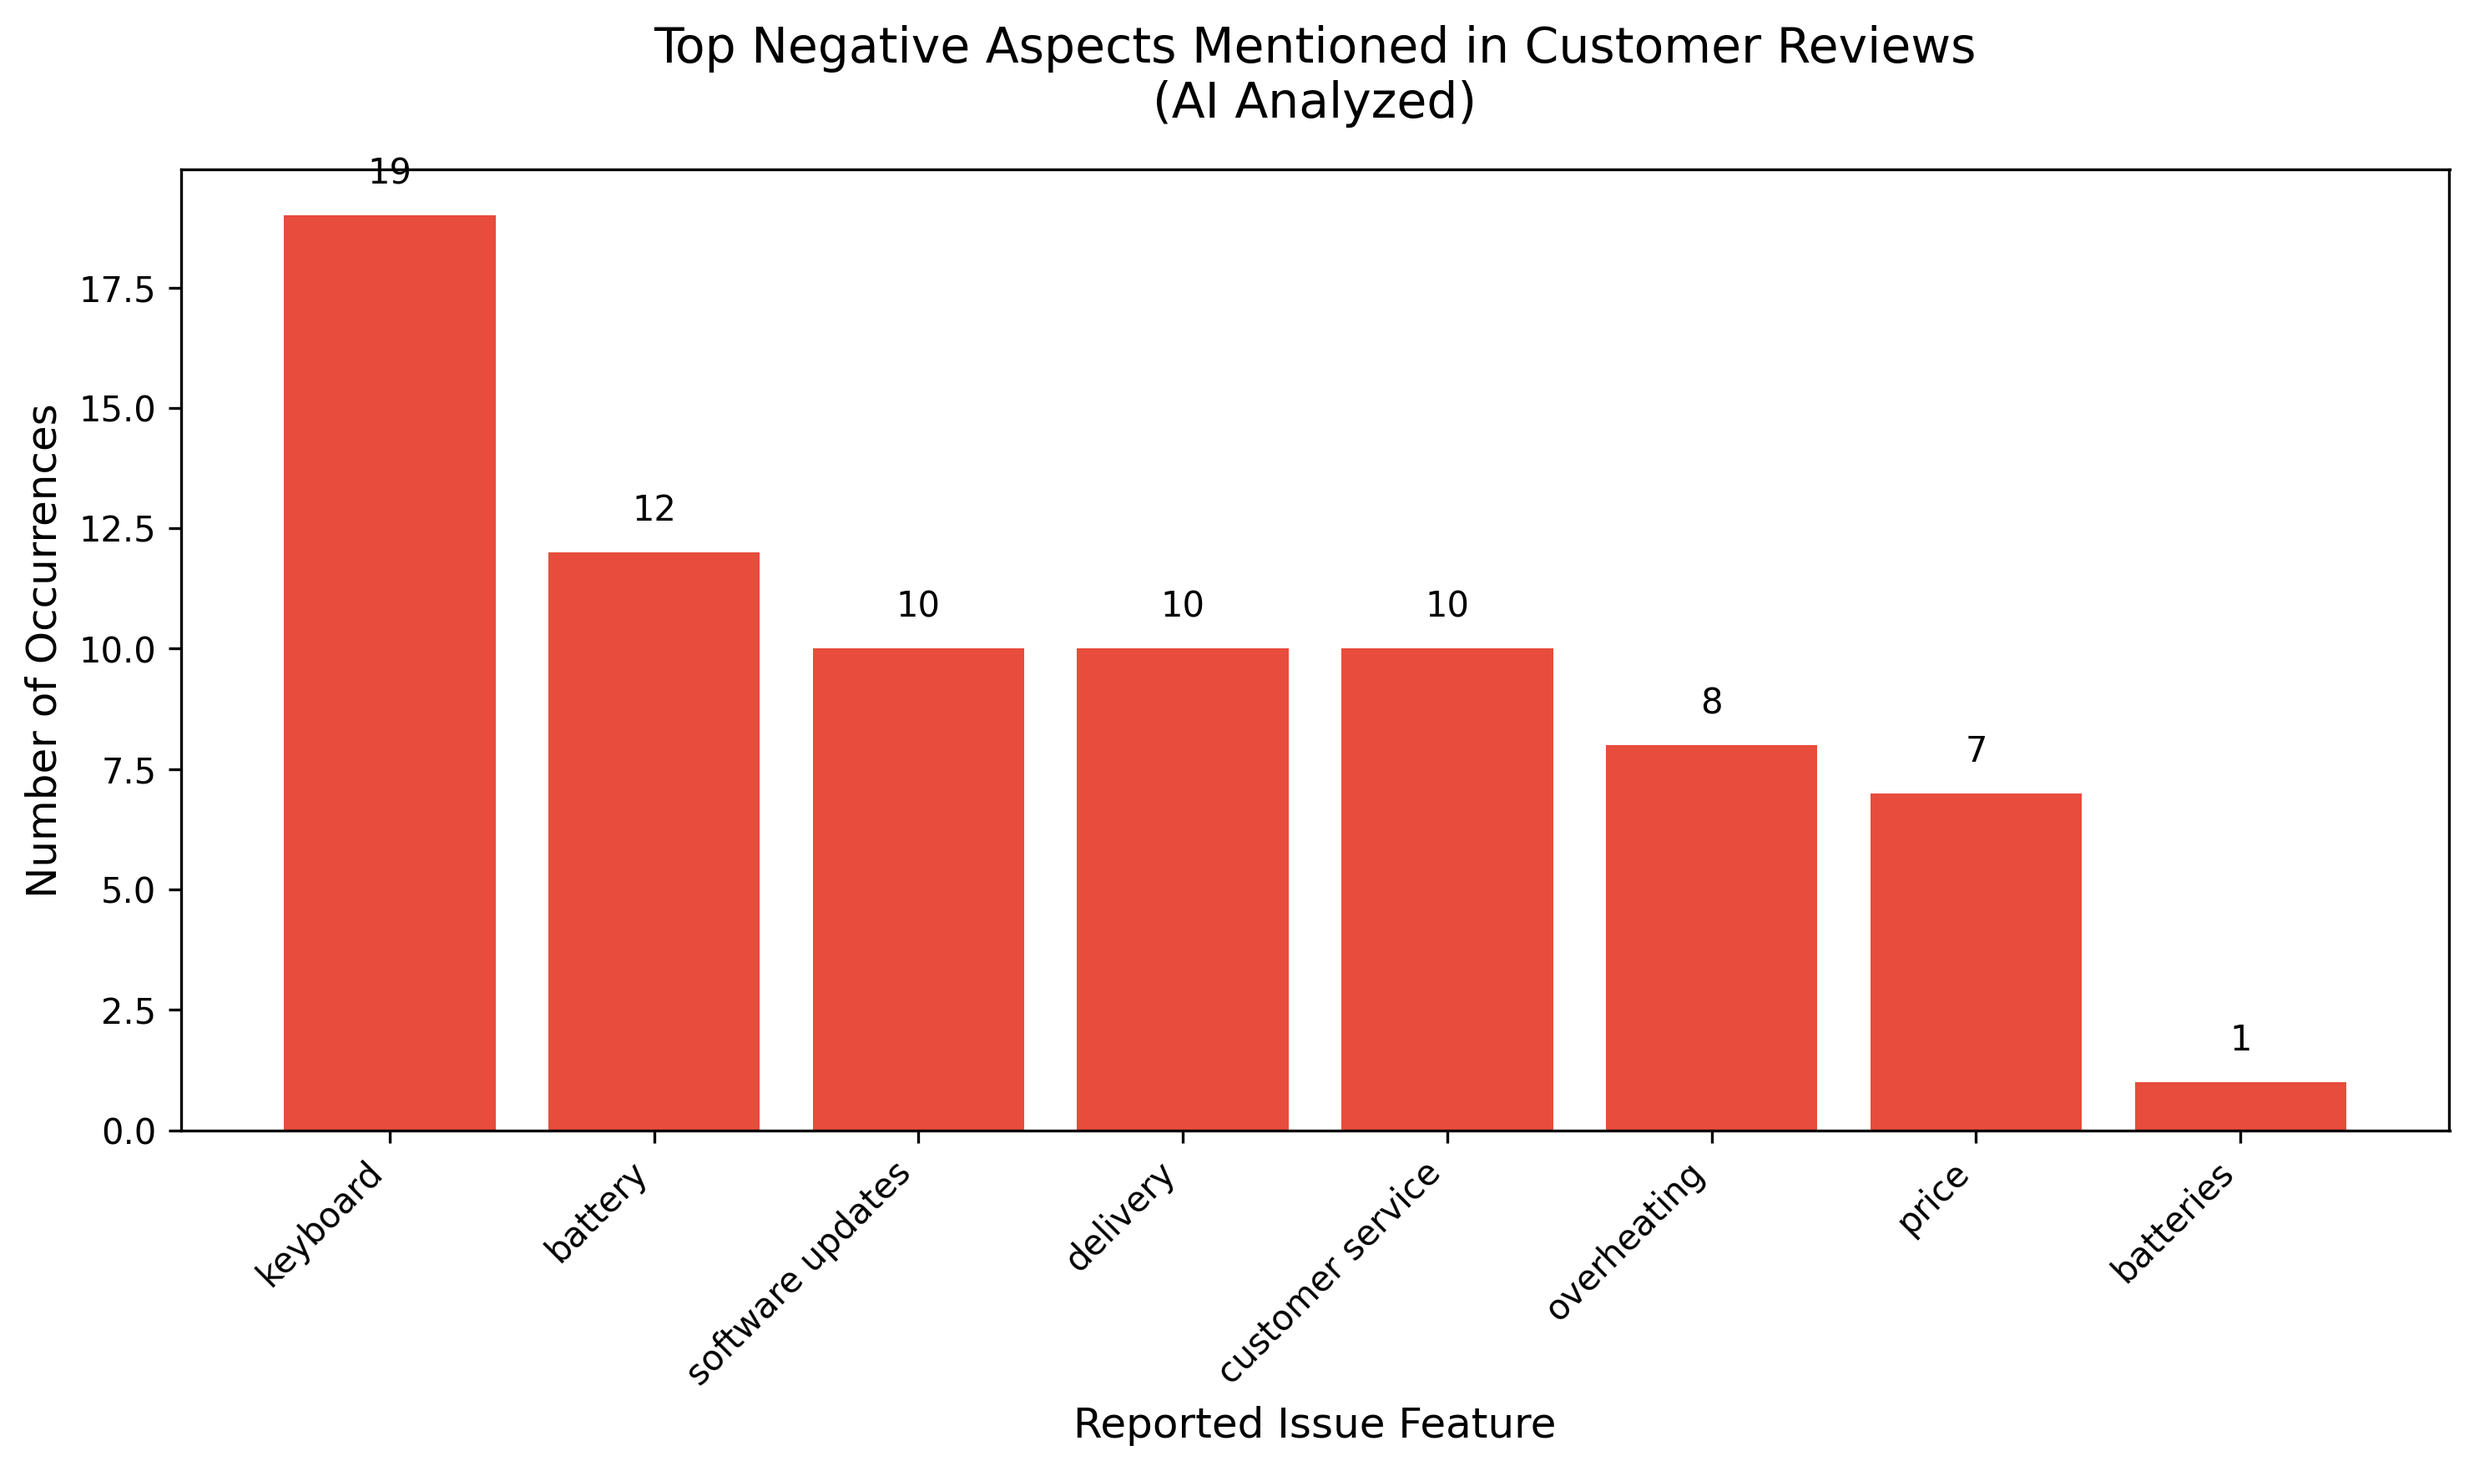
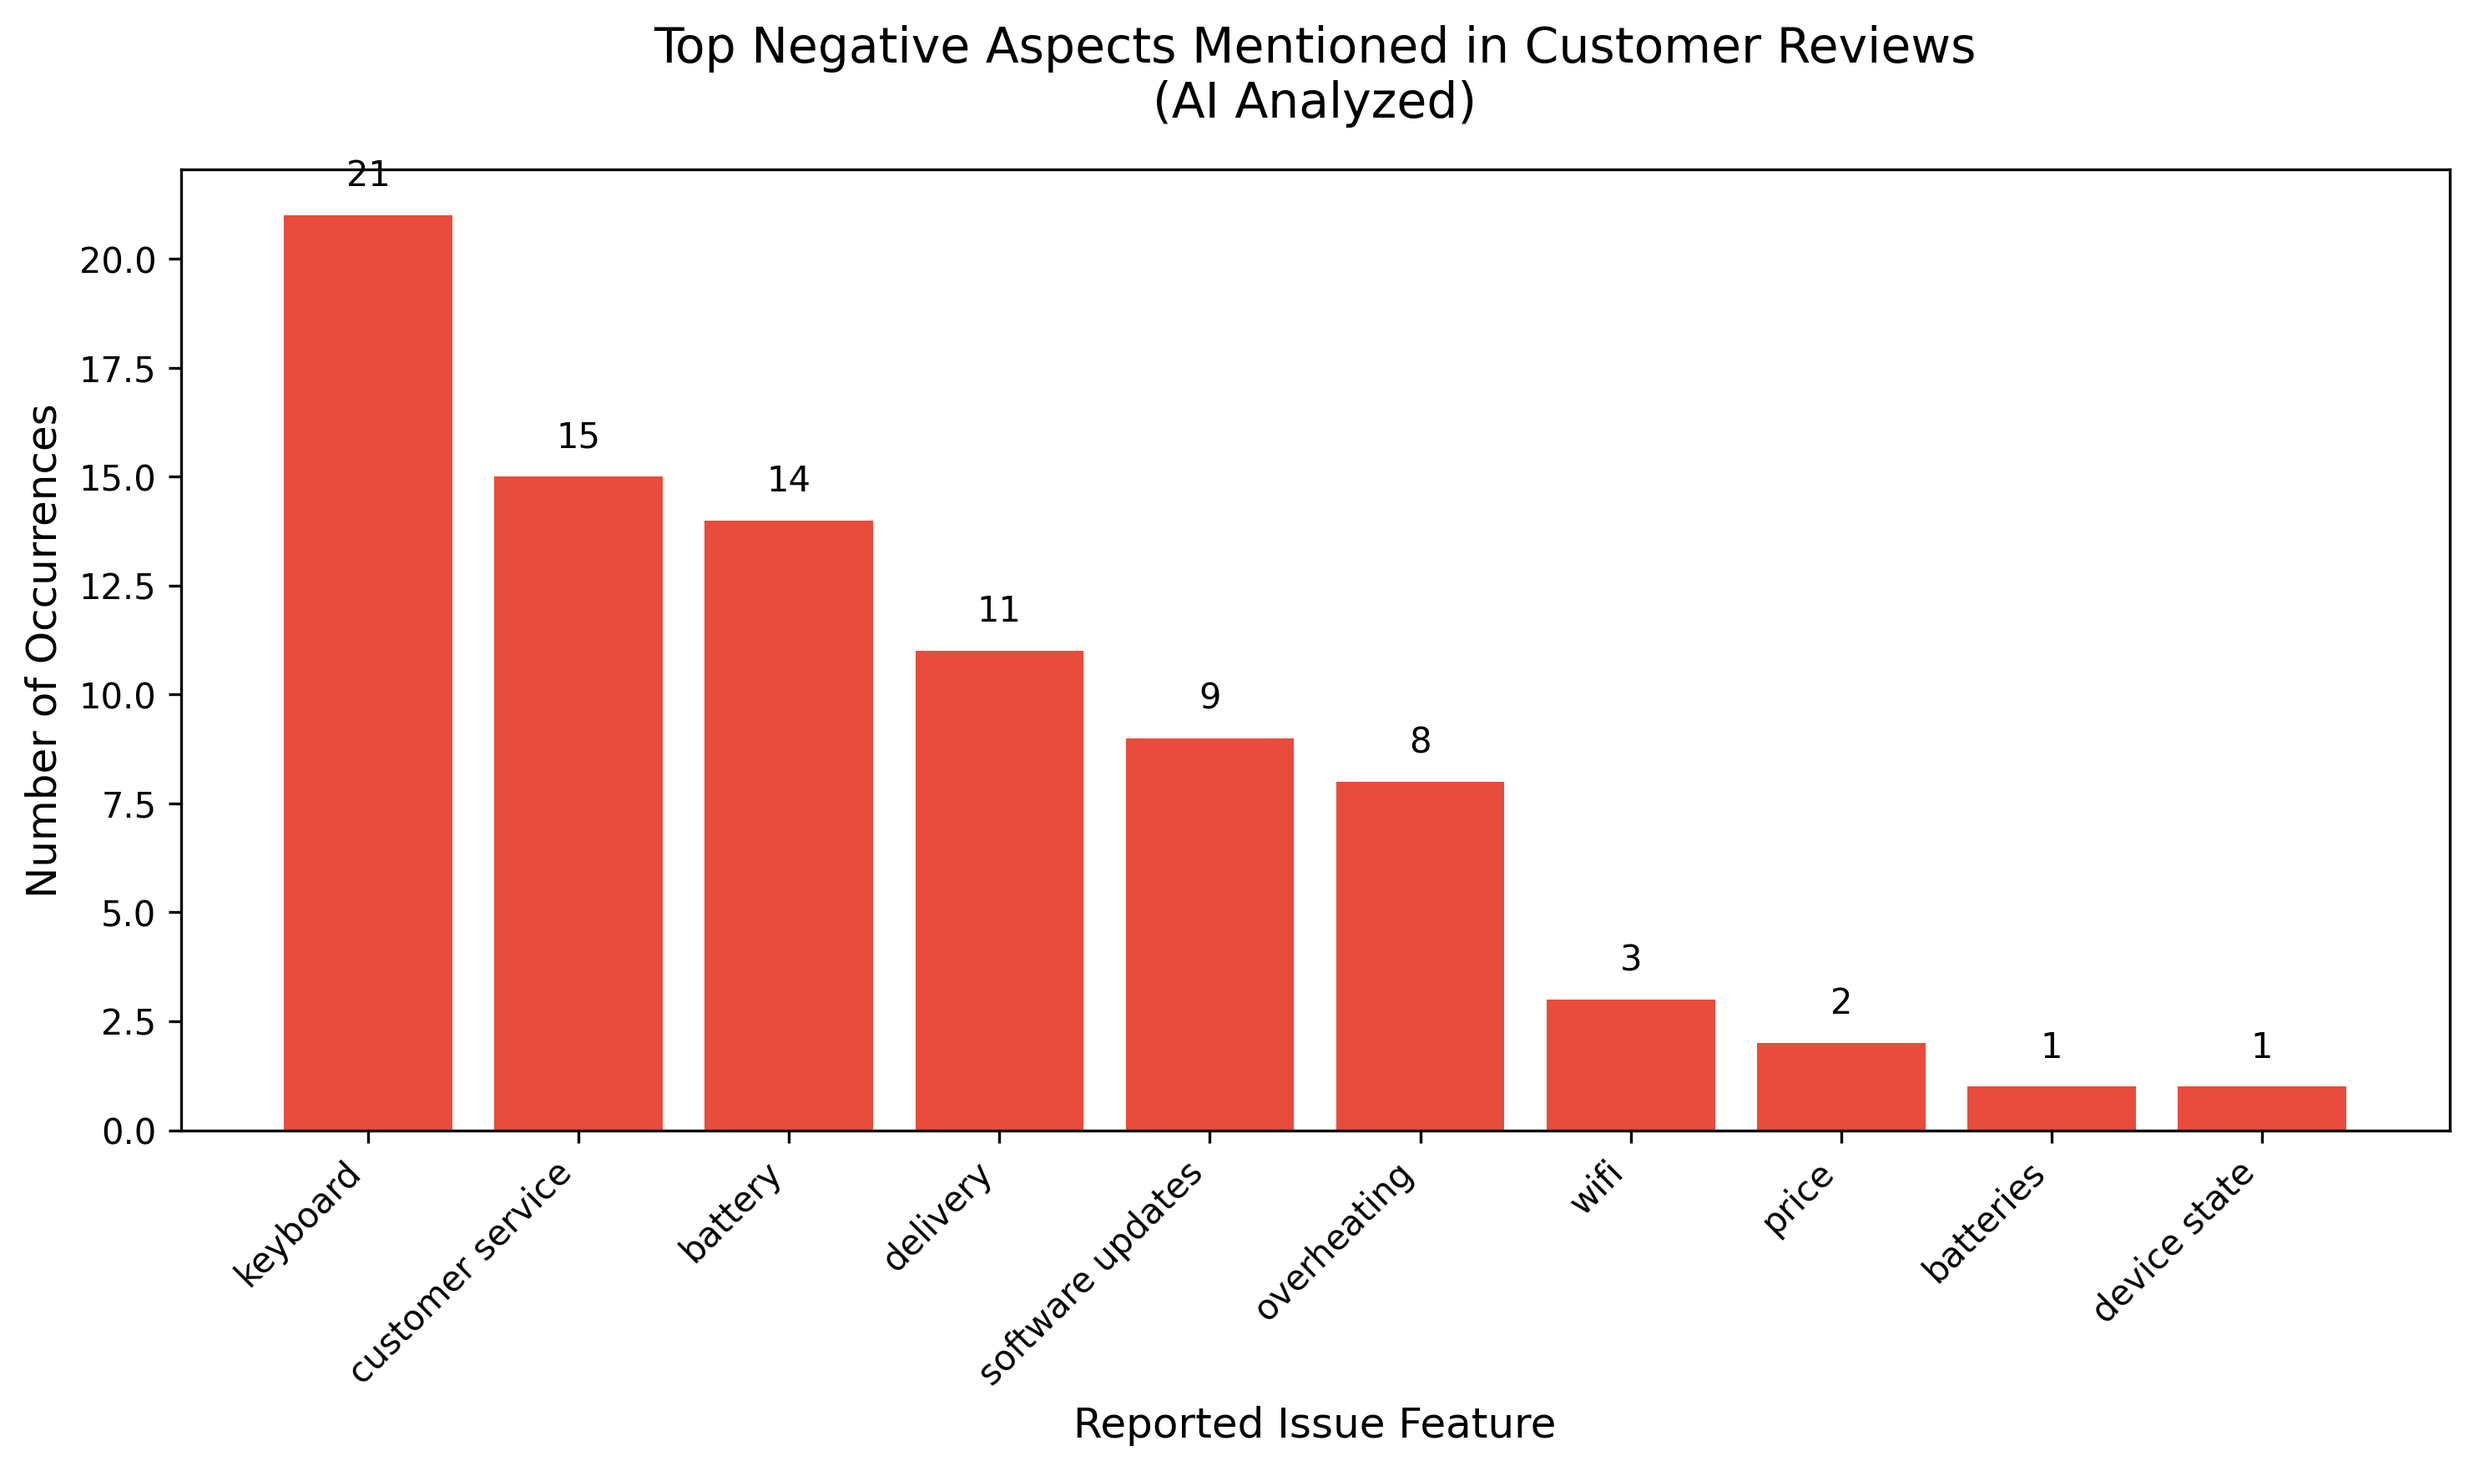
working for now, some issue with sarcasm and some edge reviews

diff --git a/main.py b/main.py
@@ -6,6 +6,10 @@ from fastapi import FastAPI, HTTPException
 from pydantic import BaseModel
 from transformers import pipeline
 import torch
+import nltk
+from nltk.corpus import stopwords
+from nltk.tokenize import word_tokenize
+from nltk.stem import WordNetLemmatizer
 
 app = FastAPI(title="Local Review Analyzer API")
 
@@ -19,7 +23,9 @@ class Aspect(BaseModel):
 
 class ReviewAnalysis(BaseModel):
     id: int
+    original_review: str
     emotion: str
+    confidence_score: float
     aspects: List[Aspect]
 
 class AnalysisResponse(BaseModel):
@@ -55,14 +61,42 @@ def analyze_reviews(request: ReviewRequest):
 
     return run_local_llm_analysis(request.reviews)
 
+# Initialize NLTK components for preprocessing
+try:
+    stop_words = set(stopwords.words('english'))
+    lemmatizer = WordNetLemmatizer()
+except LookupError:
+    # Fallback in case downloads didn't complete
+    nltk.download('punkt')
+    nltk.download('wordnet')
+    nltk.download('stopwords')
+    stop_words = set(stopwords.words('english'))
+    lemmatizer = WordNetLemmatizer()
+
+def preprocess_text(text: str) -> str:
+    # 1. Text Cleaning: Lowercasing and removing punctuation
+    text = re.sub(r'[^\w\s]', '', text.lower())
+    # 2. Tokenization
+    tokens = word_tokenize(text)
+    # 3. Stopword Removal & 4. Lemmatization
+    processed_tokens = [lemmatizer.lemmatize(word) for word in tokens if word not in stop_words]
+    return " ".join(processed_tokens)
+
 def run_local_llm_analysis(reviews: List[str]) -> AnalysisResponse:
+    # We apply the preprocessing layer here for any traditional NLP uses, 
+    # but for the LLM itself, we MUST feed it the raw original text!
+    preprocessed_reviews = [preprocess_text(r) for r in reviews]
     reviews_text = "\n".join([f"Review {i+1}: {r}" for i, r in enumerate(reviews)])
     
     prompt = f"""
 Analyze the following list of customer reviews.
+CRITICAL INSTRUCTION: Pay EXTREMELY close attention to SARCASM. 
+Sarcastic reviews often use positive words (like "perfect", "brilliant", "love", "wow") in a mocking tone to describe negative contexts or product defects (e.g., "Wow, I just *love* having to hold my laptop at a 45 degree angle"). 
+If a review is sarcastic, its true emotion and sentiment are strongly NEGATIVE!
 
 For EACH review, extract:
 - The overall emotion (Positive, Negative, or Neutral)
+- The confidence score (0.0 to 1.0) of the emotion prediction
 - Specific aspects or features mentioned, along with the sentiment for that feature (e.g., feature: "battery life", sentiment: "Negative")
 
 Finally, provide a 'global_summary' paragraph that summarizes the overarching issues.
@@ -73,6 +107,7 @@ Return strictly as a JSON object matching this schema:
     {{
       "id": 1,
       "emotion": "Emotion here",
+      "confidence_score": 0.95,
       "aspects": [
         {{"feature": "Feature 1", "sentiment": "Sentiment 1"}}
       ]
@@ -102,6 +137,18 @@ Reviews:
             json_str = output[output.find('{'):output.rfind('}')+1]
             
         data = json.loads(json_str)
+        
+        # Inject original review text back into the response (since LLM only saw preprocessed text)
+        for r in data.get("reviews_analysis", []):
+            try:
+                idx = int(r.get("id", 1)) - 1
+                if 0 <= idx < len(reviews):
+                    r["original_review"] = reviews[idx]
+                else:
+                    r["original_review"] = "N/A"
+            except Exception:
+                r["original_review"] = "N/A"
+
         return AnalysisResponse(**data)
     except Exception as e:
         print(f"Error: {e}\nRaw Output: {output if 'output' in locals() else 'None'}")

diff --git a/test.py b/test.py
@@ -40,16 +40,32 @@ for i in range(0, len(reviews), batch_size):
         response.raise_for_status()
         data = response.json()
         
-        print(f"\n--- BATCH {i//batch_size + 1} GLOBAL SUMMARY ---")
-        print(data.get("global_summary"))
-        print("\n--- BATCH REVIEW BREAKDOWN ---")
+        print(f"\n\033[1;36m{'='*60}\033[0m")
+        print(f"\033[1;36m🌟 BATCH {i//batch_size + 1} GLOBAL SUMMARY 🌟\033[0m")
+        print(f"\033[1;36m{'='*60}\033[0m")
+        print(f"\033[3m{data.get('global_summary')}\033[0m")
+        print(f"\n\033[1;35m{'='*60}\033[0m")
+        print(f"\033[1;35m📋 BATCH REVIEW BREAKDOWN 📋\033[0m")
+        print(f"\033[1;35m{'='*60}\033[0m\n")
         
-        for r in data.get("reviews_analysis", []):
-            print(f"Emotion: {r.get('emotion')}")
-            print("Aspects:")
+        for idx, r in enumerate(data.get("reviews_analysis", [])):
+            original_rev = r.get('original_review', batch[idx] if idx < len(batch) else "N/A")
+            emotion = r.get('emotion', 'Unknown')
+            conf = r.get('confidence_score', 'N/A')
+            
+            # Using ANSI colors for beautification
+            color = "\033[92m" if "positive" in str(emotion).lower() else "\033[91m" if "negative" in str(emotion).lower() else "\033[93m"
+            reset = "\033[0m"
+            
+            print(f"📝 \033[1mReview {r.get('id', idx+1)}\033[0m: \"{original_rev}\"")
+            print(f"📊 \033[1mEmotion\033[0m: {color}{emotion}{reset} | \033[1mConfidence\033[0m: \033[1;33m{conf}{reset}")
+            print("🔍 \033[1mAspects\033[0m:")
             for aspect in r.get("aspects", []):
-                # Print to terminal exactly like before
-                print(f"  - {aspect.get('feature')}: {aspect.get('sentiment')}")
+                # Print to terminal beautifully
+                feature = aspect.get('feature')
+                raw_sentiment = aspect.get('sentiment', '')
+                asp_color = "\033[92m" if "positive" in str(raw_sentiment).lower() else "\033[91m" if "negative" in str(raw_sentiment).lower() else "\033[93m"
+                print(f"   • {feature}: {asp_color}{raw_sentiment}{reset}")
                 
                 # Standardize the output string so variations group together properly for the graph
                 sentiment = aspect.get("sentiment", "").lower().strip()
@@ -66,6 +82,7 @@ for i in range(0, len(reviews), batch_size):
                     if "delivery" in feature: feature = "delivery"
 
                     negative_aspects.append(feature)
+            print("\033[90m" + "-" * 60 + "\033[0m")
     except Exception as e:
         print(f"Batch failed: {e}")
 
